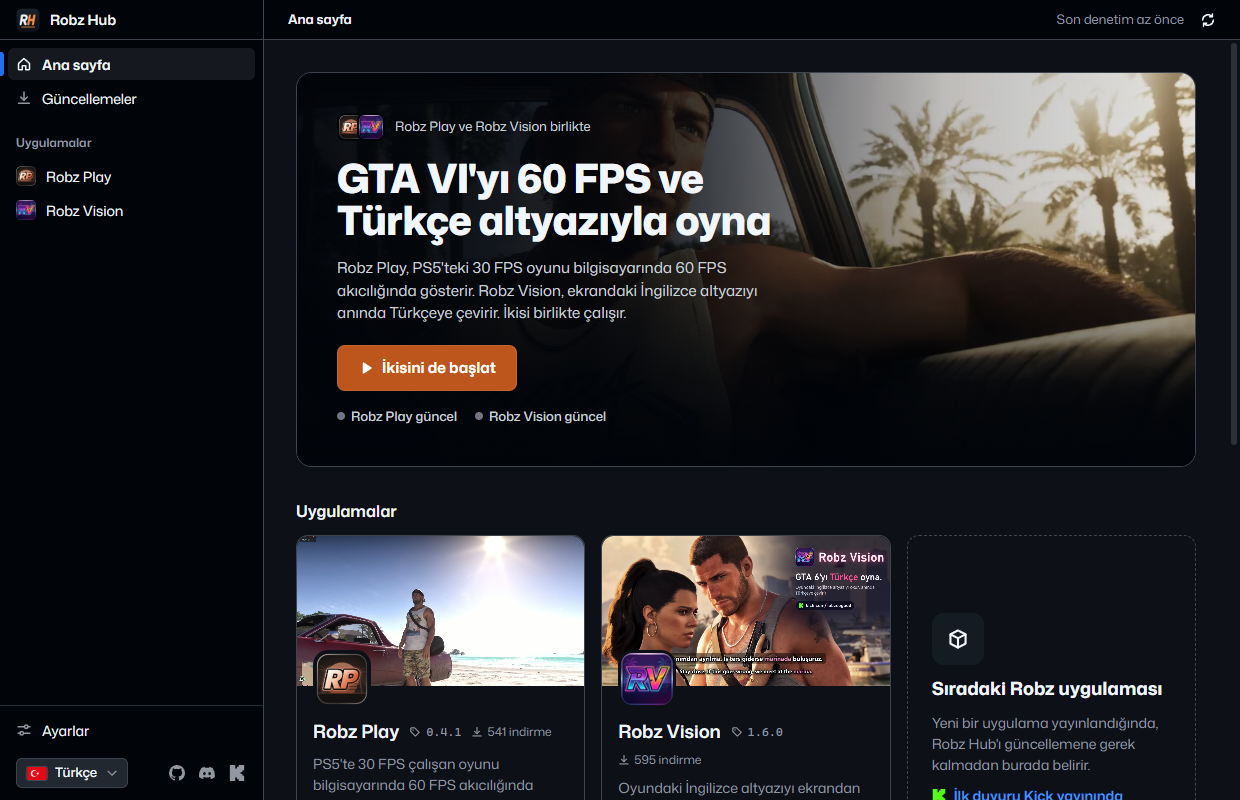
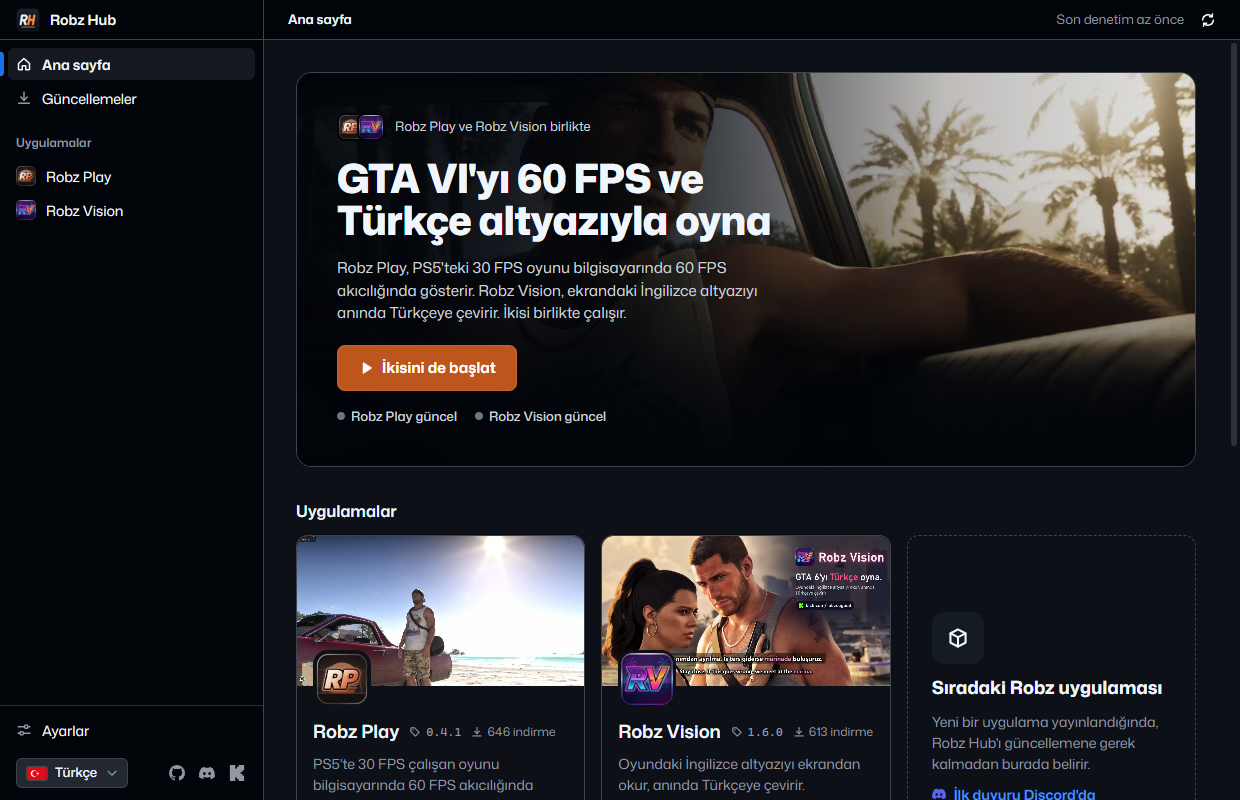
0.1.5: ilk duyurular Discord'da
Yeni sürüm ve uygulamalar her zaman ilk Discord sunucusunda duyurulur.
Ana sayfadaki Sıradaki Robz uygulaması kartı Discord'a götürür, Topluluk
bölümünde Discord üstte, Kick canlı yayınlar için. README ve site aynı.
Ekran görüntüsü betiği ana sayfayı en üstten çeker.

diff --git a/ui/js/views/home.js b/ui/js/views/home.js
@@ -179,12 +179,12 @@ function AppCard({ def }) {
   </article>`;
 }
 
-function NextAppCard({ kick }) {
+function NextAppCard({ discord }) {
   return html`<article class="app-card app-card-next">
     <span class="app-card-next-icon"><${Icon} name="package" size=${22} /></span>
     <h3>${t('home.next.title')}</h3>
     <p class="muted">${t('home.next.body')}</p>
-    ${kick && html`<a class="app-card-next-link" href=${kick}><${Icon} name="kick" size=${14} />${t('home.next.link')}</a>`}
+    ${discord && html`<a class="app-card-next-link" href=${discord}><${Icon} name="discord" size=${14} />${t('home.next.link')}</a>`}
   </article>`;
 }
 
@@ -230,15 +230,6 @@ function RecentReleases() {
 
 function Community({ links }) {
   return html`<div class="community">
-    ${links.kick &&
-    html`<div class="community-row community-kick">
-      <${Icon} name="kick" size=${28} />
-      <div class="community-text">
-        <strong>${t('home.kick.title')}</strong>
-        <span class="muted">${t('home.kick.body')}</span>
-      </div>
-      <a class="btn btn-community" href=${links.kick}>${t('home.kick.action')}</a>
-    </div>`}
     ${links.discord &&
     html`<div class="community-row community-discord">
       <${Icon} name="discord" size=${28} />
@@ -247,6 +238,15 @@ function Community({ links }) {
         <span class="muted">${t('home.discord.body')}</span>
       </div>
       <a class="btn btn-community" href=${links.discord}>${t('home.discord.action')}</a>
+    </div>`}
+    ${links.kick &&
+    html`<div class="community-row community-kick">
+      <${Icon} name="kick" size=${28} />
+      <div class="community-text">
+        <strong>${t('home.kick.title')}</strong>
+        <span class="muted">${t('home.kick.body')}</span>
+      </div>
+      <a class="btn btn-community" href=${links.kick}>${t('home.kick.action')}</a>
     </div>`}
   </div>`;
 }
@@ -267,7 +267,7 @@ export function Home() {
       <h2 class="section-title">${t('home.apps')}</h2>
       <div class="app-cards">
         ${catalog.apps.map((def) => html`<${AppCard} def=${def} key=${def.id} />`)}
-        <${NextAppCard} kick=${catalog.links.kick} />
+        <${NextAppCard} discord=${catalog.links.discord} />
       </div>
     </section>
 

diff --git a/scripts/screenshots.js b/scripts/screenshots.js
@@ -94,8 +94,13 @@ async function main() {
       }
       return false;
     };
-    const shot = async (name) => {
+    // top: görüntüden hemen önce sayfayı en üste getir (pencere öndeyken bir fare tekerleği onu kaydırabilir)
+    const shot = async (name, { top = false } = {}) => {
       await sleep(700);
+      if (top) {
+        await evaluate("document.querySelector('.content').scrollTo(0, 0)");
+        await sleep(100);
+      }
       const reply = await send('Page.captureScreenshot', { format: 'png' });
       fs.mkdirSync(outDir, { recursive: true });
       fs.writeFileSync(path.join(outDir, `${name}.png`), Buffer.from(reply.result.data, 'base64'));
@@ -115,14 +120,15 @@ async function main() {
     await send('Page.reload'); // dinleme açıkken baştan yükle: açılış hataları da görünsün
 
     if (!(await waitFor("document.querySelector('.shell') !== null"))) throw new Error(`arayüz açılmadı\n${logs.join('\n')}`);
-    await waitFor("document.querySelectorAll('.feed-item').length > 0", 20000);
+    await waitFor("document.querySelectorAll('.releases-list li').length > 0", 20000);
     await waitFor("document.querySelector('.topbar .spinner') === null", 20000);
     await evaluate("document.querySelectorAll('.toast .btn-icon').forEach((b) => b.click())");
 
     console.log(`ekran görüntüleri -> ${outDir}`);
     await evaluate("window.hub.call('setSetting', 'language', 'tr')");
     await sleep(300);
-    await shot('01-ana-sayfa');
+    await click('.sidebar .nav-item', 'Ana sayfa');
+    await shot('01-ana-sayfa', { top: true });
     await click('.sidebar .nav-item', 'Robz Vision');
     await shot('02-uygulama');
     await click('.tab', 'Sürüm notları');
@@ -134,7 +140,7 @@ async function main() {
     await evaluate("window.hub.call('setSetting', 'language', 'en')");
     await sleep(300);
     await click('.sidebar .nav-item', 'Home');
-    await shot('06-home-en');
+    await shot('06-home-en', { top: true });
     await evaluate("window.hub.call('setSetting', 'language', 'auto')");
 
     if (logs.length) console.log(`\nkonsol:\n${logs.join('\n')}`);

diff --git a/ui/js/locales/tr.js b/ui/js/locales/tr.js
@@ -104,14 +104,14 @@ export default {
   'hero.more': 'Ayrıntılar',
   'home.community': 'Topluluk',
   'home.kick.title': "Robz so good, Kick'te",
-  'home.kick.body': 'Yeni sürümler önce yayında duyurulur.',
+  'home.kick.body': "Canlı yayınları Kick'te izle.",
   'home.kick.action': 'Takip et',
-  'home.discord.title': 'Kurulumda takıldın mı?',
-  'home.discord.body': "Discord'da ücretsiz kurulum desteği var.",
+  'home.discord.title': "İlk duyurular Discord'da",
+  'home.discord.body': 'Yeni sürüm ve uygulamalar ilk burada duyurulur; kurulumda takılırsan ücretsiz destek de var.',
   'home.discord.action': 'Katıl',
   'home.next.title': 'Sıradaki Robz uygulaması',
   'home.next.body': "Yeni bir uygulama yayınlandığında, Robz Hub'ı güncellemene gerek kalmadan burada belirir.",
-  'home.next.link': 'İlk duyuru Kick yayınında',
+  'home.next.link': "İlk duyuru Discord'da",
 
   'app.tab.overview': 'Genel bakış',
   'app.tab.changelog': 'Sürüm notları',

diff --git a/ui/js/locales/en.js b/ui/js/locales/en.js
@@ -104,14 +104,14 @@ export default {
   'hero.more': 'Learn more',
   'home.community': 'Community',
   'home.kick.title': 'Robz so good on Kick',
-  'home.kick.body': 'New releases are announced on stream first.',
+  'home.kick.body': 'Watch the live streams on Kick.',
   'home.kick.action': 'Follow',
-  'home.discord.title': 'Stuck installing?',
-  'home.discord.body': 'Free setup help on Discord.',
+  'home.discord.title': 'Announced first on Discord',
+  'home.discord.body': 'New releases and apps are announced here first, with free setup help if you get stuck.',
   'home.discord.action': 'Join',
   'home.next.title': 'The next Robz app',
   'home.next.body': 'When a new app is released, it shows up here without updating Robz Hub.',
-  'home.next.link': 'First announced on Kick',
+  'home.next.link': 'First announced on Discord',
 
   'app.tab.overview': 'Overview',
   'app.tab.changelog': 'Release notes',

diff --git a/ui/css/app.css b/ui/css/app.css
@@ -1074,8 +1074,8 @@
   gap: 8px;
   font-weight: 600;
 }
-.app-card-next-link .icon-kick {
-  color: #53fc18;
+.app-card-next-link .icon-discord {
+  color: #5865f2;
 }
 
 /* Son sürümler ve topluluk */

diff --git a/CHANGELOG.md b/CHANGELOG.md
@@ -3,6 +3,39 @@
 Her sürümün notları burada `## X.Y.Z` başlığı altında durur; sürüm iş akışı (.github/workflows/release.yml) GitHub
 sürüm notunu bu bölümden alır.
 
+## 0.1.5
+
+<!-- tr -->
+- **Yeni ana sayfa.** Üstte dönen bir tanıtım alanı var: GTA VI paketi ve duyurular. Tek düğmeyle iki uygulamayı birden kurar, günceller ya da başlatırsın. Altında kapak görselli uygulama kartları, bütün uygulamaların son sürümleri ve Topluluk bölümü yer alır.
+- **İlk duyurular Discord'da.** Yeni sürümler ve uygulamalar her zaman önce Discord sunucusunda duyurulur. Topluluk bölümünde Discord en üstte; "Sıradaki Robz uygulaması" kartı da Discord'a götürür. Canlı yayınlar Kick'te.
+- **Gerçek Discord ve Kick logoları** kenar çubuğunda, Ayarlar'da ve ana sayfada.
+- **Atlanan sürümlerin notları.** Robz Hub'ın birkaç sürümünü atladıysan, güncelleme kartı aradaki bütün sürümlerin notlarını gösterir; en yenisi üstte.
+- **Düzeltme:** GitHub'da yeni bir sürüm çıktığında "Güncelleme var", son sürüm ve indirme sayısı hemen yenilenir. 0.1.4'te bunlar, uygulamanın kurulumu değişene kadar eski kalabiliyordu.
+
+0.1.2 ile 0.1.4 arasında gelenler de bu sürümde:
+- Bayraklı dil seçimi.
+- GitHub indirme sayıları.
+- Uygulamanın kendi içinden yapılan güncellemeler birkaç saniyede görünür.
+- Kendini güncelledikten sonra indirdiği kurulum dosyasını siler.
+
+<!-- en -->
+<details><summary>English</summary>
+
+- **New home page.** At the top, a rotating promo area shows the GTA VI bundle and announcements. One button installs, updates or launches both apps at once. Below it are app cards with cover images, the latest releases of every app and a Community section.
+- **Announced first on Discord.** New releases and apps are always announced on the Discord server first. Discord is at the top of the Community section, and "The next Robz app" card links to Discord. Live streams are on Kick.
+- **Real Discord and Kick logos** in the sidebar, Settings and the home page.
+- **Notes for skipped versions.** If you skipped a few Robz Hub versions, the update card shows the notes of every version in between, newest first.
+- **Fix:** when a new release appears on GitHub, "Update available", the latest version and the download count refresh right away. In 0.1.4 they could stay stale until the app's installation changed.
+
+Also in this release, from 0.1.2 to 0.1.4:
+- A language picker with flags.
+- GitHub download counts.
+- Updates made inside an app show up within seconds.
+- Robz Hub deletes the installer it downloaded after updating itself.
+
+</details>
+<!-- end -->
+
 ## 0.1.4
 
 <!-- tr -->

diff --git a/README.md b/README.md
@@ -129,8 +129,8 @@ Robz Hub'ı güncellemeye gerek kalmadan bütün kullanıcıların listesinde be
   toplam indirme sayısı ve o an anlamlı olan düğmeler (**Kur**, **Güncelle**, **Başlat**, **Kapat**). Kartın **⋯**
   menüsünde: kurulum klasörünü aç, yeniden kur, web sitesi, GitHub deposu, sorun bildir ve **Kaldır**. Son kutu, sıradaki
   Robz uygulamasının yeri: yayınlanınca Robz Hub'ı güncellemeden burada belirir.
-- **Son sürümler** ve **Topluluk:** bütün uygulamaların en yeni sürümleri (tıklayınca notları açılır), Kick kanalı ve
-  Discord'daki ücretsiz kurulum desteği.
+- **Son sürümler** ve **Topluluk:** bütün uygulamaların en yeni sürümleri (tıklayınca notları açılır), ilk duyuruların
+  ve ücretsiz kurulum desteğinin yapıldığı Discord sunucusu, Kick kanalı.
 
 ### Uygulama sayfası
 
@@ -358,7 +358,8 @@ sayfasında gösterir.
 
 - **Kurulumda takıldın mı?** [Discord](https://discord.gg/UyyEn7SHm4) sunucusunda ücretsiz destek var.
 - **Hata mı buldun, bir fikrin mi var?** [Sorun bildir](https://github.com/kutsalkiremitci/robz-hub/issues).
-- **Yeni sürümler** önce [Kick'teki yayınlarda](https://kick.com/robzsogood) duyurulur.
+- **Yeni sürümler ve uygulamalar** her zaman ilk [Discord](https://discord.gg/UyyEn7SHm4) sunucusunda duyurulur;
+  canlı yayınlar [Kick'te](https://kick.com/robzsogood).
 - **Beğendiysen** depoya ⭐ vermen projeyi daha çok kişinin bulmasını sağlar.
 
 Katkılar açık: kod, çeviri ya da kataloğa yeni bir uygulama için pull request gönderebilirsin.

diff --git a/README.en.md b/README.en.md
@@ -129,8 +129,8 @@ for every user without updating Robz Hub.
   downloads on GitHub and the buttons that make sense right now (**Install**, **Update**, **Launch**, **Close**). The
   card's **⋯** menu has: open install folder, reinstall, website, GitHub repository, report an issue and **Uninstall**.
   The last card is a place for the next Robz app: once released, it appears there without updating Robz Hub.
-- **Recent releases** and **Community:** the newest releases of every app (click one for its notes), the Kick channel
-  and free setup help on Discord.
+- **Recent releases** and **Community:** the newest releases of every app (click one for its notes), the Discord server
+  where everything is announced first (with free setup help) and the Kick channel.
 
 ### App page
 
@@ -355,7 +355,8 @@ notes to [`CHANGELOG.md`](CHANGELOG.md) and push a `vX.Y.Z` tag. The workflow bu
 
 - **Stuck installing?** There's free support on [Discord](https://discord.gg/UyyEn7SHm4).
 - **Found a bug or have an idea?** [Open an issue](https://github.com/kutsalkiremitci/robz-hub/issues).
-- **New releases** are announced first on [Kick streams](https://kick.com/robzsogood).
+- **New releases and apps** are always announced first on [Discord](https://discord.gg/UyyEn7SHm4); live streams
+  are on [Kick](https://kick.com/robzsogood).
 - **Like it?** A ⭐ on the repository helps more people find the project.
 
 Contributions are welcome: send a pull request for code, translations or a new app in the catalog.
